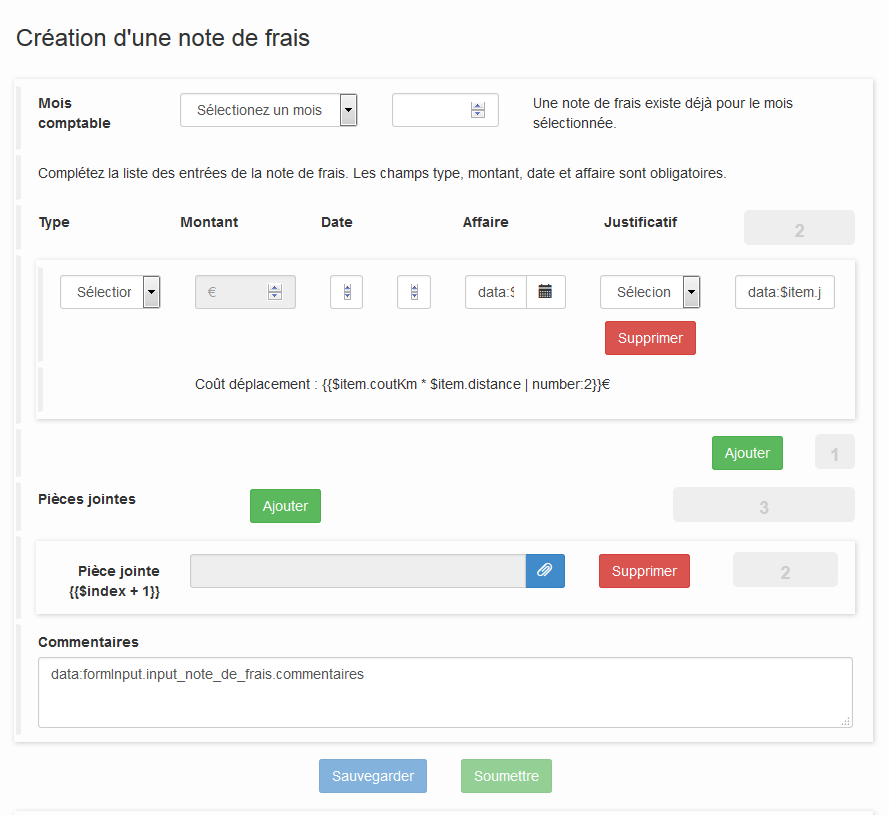
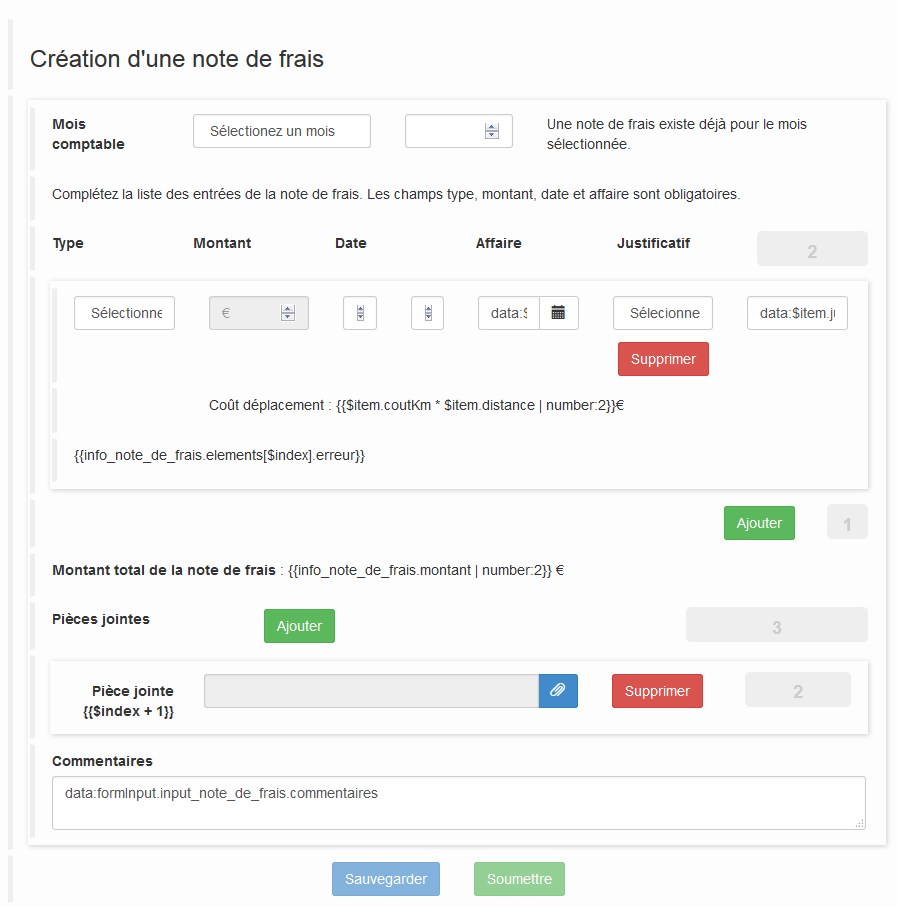
Updated spec.html and ui designer screenshots

diff --git a/spec.html b/spec.html
@@ -1261,7 +1261,8 @@ RestApi.Bdm = new BdmObject();</pre>
 		Pour l'ensemble de ces widgets, le libellé est masqué.
 		La mention indiquant qu'une note de frais existe déjà est masqué et les boutons permettant de valider 
 		le formulaire sont activés s'il n'existe pas de note de frais pour le mois sélectionné (variable 
-		<i>note_de_frais_existante</i>).
+		<i>note_de_frais_existante</i>). Les boutons sont désactivés si les informations saisies sont 
+		invalides (e.g. montant non positifs, date ne correspondant pas au mois comptable de la note, etc...).
 		</p>
 		
 		<div class="code-fragment">
@@ -1281,6 +1282,103 @@ return RestApi.Bdm.hasNoteDeFrais(RestApi.Identity.getCurrentUserId(),
 		</div>
 		</div>
 		
+		<p>
+		La variable <i>info_note_de_frais</i> contient des informations sur la note de frais et 
+		ses éléments. Elle indique si les éléments de la note de frais sont valides et contient 
+		les messages d'erreur à afficher en cas de problème.
+		</p>
+		
+		<div class="code-fragment">
+		<div class="nom">info_note_de_frais</div>
+		<div class="description">Javascript expression</div>
+		<div class="valeur">
+		<input type="checkbox" id="form-creer-var-info_note_de_frais" />
+		<label for="form-creer-var-info_note_de_frais">Afficher / Masquer le code</label>
+		<div class="code">
+		<pre>
+if(!angular.isDefined($data.formInput.input_note_de_frais)) {
+    return 0;
+}
+
+
+function indexMois(m) {
+    var liste_mois = ["Janvier", "Fevrier", "Mars", "Avril",
+                       "Mai", "Juin", "Juillet", "Aout", "Septembre",
+                       "Octobre", "Novembre", "Decembre"];
+    return liste_mois.indexOf(m);
+}
+
+var ndf = $data.formInput.input_note_de_frais;
+
+var montant = 0;
+var elems = [];
+var ndf_ok = true;
+
+for(var i = 0; i &lt; ndf.elements.length; i++) {
+    var e = ndf.elements[i];
+    montant += e.montant;
+    
+    var e_ok = true;
+    var e_err = "";
+    
+    if(e.type == null) {
+        e_ok = false;
+        e_err += "Vous devez spécifier un type pour cet élément.&lt;br/>";
+    } else {
+        if(e.type == "KMS") {
+            if(e.distance == null) {
+                e_ok = false;
+                e_err += "Vous devez spécifier une distance pour cet élément.&lt;br/>";
+            } else if(e.distance == 0) {
+                e_ok = false;
+                e_err += "Vous devez spécifier une distance strictement positive pour cet élément.&lt;br/>";
+            }
+            if(e.coutKm == null) {
+                e_ok = false;
+                e_err += "Vous devez spécifier un coût au kilomètre pour cet élément.&lt;br/>";
+            } else if(e.coutKm == 0) {
+                e_ok = false;
+                e_err += "Vous devez spécifier un coût au kilomètre strictement positif pour cet élément.&lt;br/>";
+            }
+        } else {
+            if(e.montant == null) {
+                e_ok = false;
+                e_err += "Vous devez spécifier un montant pour cet élément.&lt;br/>";
+            } else if(e.montant == 0) {
+                e_ok = false;
+                e_err += "Vous devez spécifier un montant strictement positif pour cet élément.&lt;br/>";
+            }
+        }
+    }
+
+    if(e.dateDepense == null) {
+        e_ok = false;
+        e_err += "Vous devez spécifier une date pour cet élément.&lt;br/>";
+    } else {
+        if(e.dateDepense.getMonth() != indexMois(ndf.moisComptable)) {
+            e_ok = false;
+            e_err += "Le mois spécifié pour cet élément ne correspond pas au mois de la note de frais.&lt;br/>";
+        }
+        if(e.dateDepense.getFullYear() != ndf.anneeComptable) {
+            e_ok = false;
+            e_err += "L'année spécifiée pour cet élément ne correspond pas à celle de la note de frais.&lt;br/>";
+        }   
+    }
+    
+    if(e.affaire == null) {
+        e_ok = false;
+        e_err += "Vous devez spécifier une affaire pour cet élément.&lt;br/>";
+    }
+    
+    ndf_ok = ndf_ok &amp; e_ok;
+    elems.push({"ok": e_ok, "erreur": e_err});
+}
+
+
+return {"ok": ndf_ok, "montant": montant, "elements": elems};</pre>
+		</div>
+		</div>
+		</div>
 		
 		</section>
 		
@@ -1529,50 +1627,10 @@ return note_de_frais;</pre>
 		
 		<p>
 		Les boutons <i>Sauvegarder</i> et <i>Soumettre</i> ne sont activés que si les informations obligatoires 
-		ont toutes été fournies (variable <i>note_completee</i>). Pour que le bouton <i>Sauvegarder</i> soit 
+		ont toutes été fournies et sont valides (variable <i>info_note_de_frais</i> similaire au premier formulaire). Pour que le bouton <i>Sauvegarder</i> soit 
 		actif, il faut également que la note n'ait jamais été soumise à validation (i.e. le champ 
 		<i>estCompletee</i> de la note de frais vaut false).
 		</p>
-		
-		<div class="code-fragment">
-		<div class="nom">note_completee</div>
-		<div class="description">Javascript expression</div>
-		<div class="valeur">
-		<input type="checkbox" id="form-completer-var-note_completee" />
-		<label for="form-completer-var-note_completee">Afficher / Masquer le code</label>
-		<div class="code">
-		<pre>
-var elems = $data.noteDeFrais.elements;
-for(var i = 0; i &lt; elems.length; i++) {
-    var e = elems[i];
-    
-    if(e == null) {
-        return false;
-    }
-    
-    if(e.type == null) {
-        return false;
-    }
-    
-    if(e.type == "KMS") {
-        if(e.coutKm == null || e.distance == null) {
-            return false;
-        }
-    } else {
-        if(e.montant == null) {
-            return false;
-        }
-    }
-    
-    if(e.dateDepense == null || e.affaire == null) {
-        return false;
-    }
-}
-
-return true;</pre>
-		</div>
-		</div>
-		</div>
 		
 		</section>
 		
@@ -1691,10 +1749,7 @@ List&lt;FileInputValue> filesInputValue = new ArrayList&lt;FileInputValue>();
 
 while((documents = apiAccessor.processAPI.getDocumentList(processInstanceId, "pieces_jointes", index, numberOfResult)).size()) {
 	for(Document currentDocument : documents) {
-		FileInputValue fileInputValue = new FileInputValue(
-		currentDocument.contentFileName, 
-		apiAccessor.processAPI.getDocumentContent(currentDocument.contentStorageId)
-		);
+		FileInputValue fileInputValue = new FileInputValue(currentDocument.contentFileName, apiAccessor.processAPI.getDocumentContent(currentDocument.contentStorageId));
 		
 		filesInputValue.add(fileInputValue);
 	}
@@ -1703,8 +1758,9 @@ while((documents = apiAccessor.processAPI.getDocumentList(processInstanceId, "pi
 
 List&lt;Object> resultat = new ArrayList&lt;Object>();
 resultat.addAll(filesInputValue);
-resultat.addAll(form_pieces_jointes);
-
+if(form_pieces_jointes != null) {
+	resultat.addAll(form_pieces_jointes);
+}
 
 return resultat;</pre>
 		</div>
